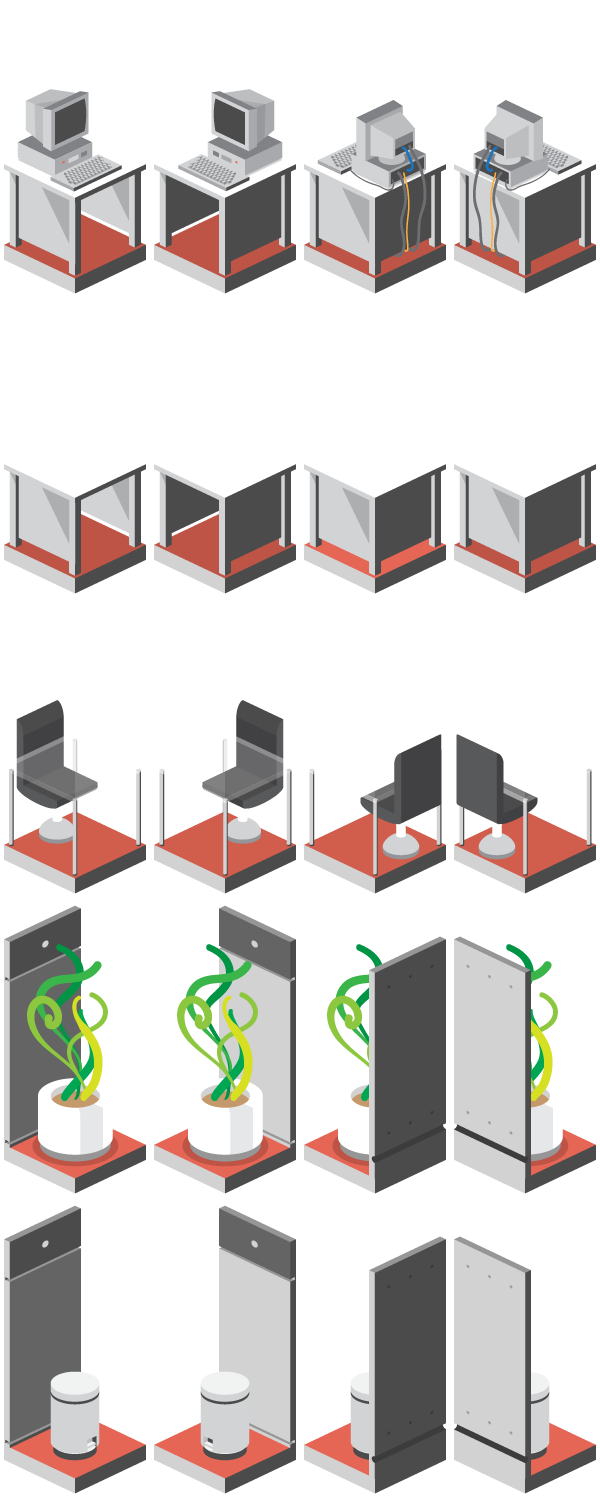
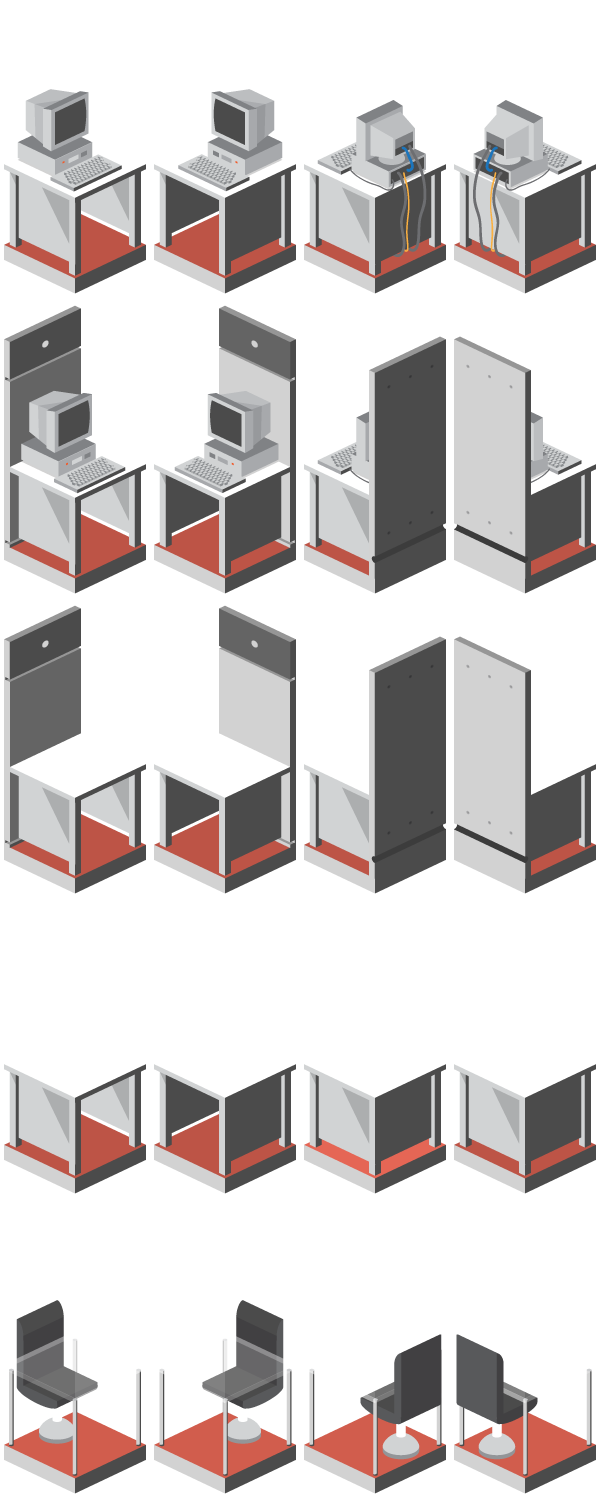
more textures

diff --git a/js/levels_new.js b/js/levels_new.js
@@ -4,7 +4,7 @@ function assignStyles(){
 	var	columns=4,
 		rows=5,
 		perPage=20,
-		max=720, ///////////total textures
+		max=880, ///////////total textures
 		x=150, ////////////sprite width
 		y=2*x, //////////sprite height
 		divSize=document.createElement('style');
@@ -72,66 +72,66 @@ floor_1[16]=[,,,,,,,,,,,,,,,,,,,];
 floor_1[17]=[,,,,,,,,,,,,,,,,,,,];
 floor_1[18]=[,,,,,,,,,,,,,,,,,,,];
 floor_1[19]=[,,,,,,,,,,,,,,,,,,,];
-floor_2[0]=[602,561,602,561,602,561,602,561,602,561,602,561,602,561,602,561,602,561,602,561];
-floor_2[1]=[602,602,602,602,602,602,602,602,602,602,602,602,602,602,602,602,602,602,602,602];
-floor_2[2]=[602,602,549,542,542,546,542,542,542,542,542,542,542,542,546,542,542,550,602,602];
-floor_2[3]=[570,570,541,557,601,601,601,601,601,601,601,601,601,601,601,601,558,543,570,570];
-floor_2[4]=[602,602,541,601,29,22,22,370,414,414,414,414,25,18,18,30,601,543,602,602];
-floor_2[5]=[602,602,545,601,17,2,2,,,,,0,13,2,2,19,601,547,602,602];
-floor_2[6]=[602,602,541,601,17,2,15,98,94,90,86,82,9,2,2,43,601,543,602,602];
-floor_2[7]=[602,602,541,601,17,2,15,120,116,112,108,104,2,2,2,47,601,543,602,602];
-floor_2[8]=[602,602,541,601,17,2,10,14,14,14,14,146,2,2,2,19,601,543,602,602];
-floor_2[9]=[602,602,541,601,17,2,2,2,2,2,2,2,2,2,2,19,601,543,602,602];
-floor_2[10]=[602,602,541,601,205,194,194,194,194,194,194,194,194,222,226,206,601,543,602,602];
-floor_2[11]=[602,602,541,601,193,182,182,182,182,182,182,182,182,182,182,195,601,543,602,602];
-floor_2[12]=[602,602,541,601,193,182,301,182,182,301,182,182,311,182,182,195,601,543,602,602];
-floor_2[13]=[602,602,541,601,193,182,301,182,182,301,182,182,311,182,182,195,601,543,602,602];
-floor_2[14]=[602,602,545,601,193,182,182,182,182,182,182,182,182,182,182,195,601,547,602,602];
-floor_2[15]=[602,602,541,601,208,196,196,196,196,196,196,196,196,196,196,207,601,543,602,602];
-floor_2[16]=[578,602,541,601,601,601,601,601,601,601,601,601,601,601,601,601,601,543,602,602];
-floor_2[17]=[542,542,542,553,601,601,601,601,601,601,601,601,601,601,601,601,554,542,542,542];
-floor_2[18]=[601,601,601,601,601,601,593,603,603,603,603,603,603,594,601,601,601,601,601,601];
-floor_2[19]=[601,601,601,601,601,601,601,603,603,603,603,603,603,601,601,601,601,601,601,601];
+floor_2[0]=[602,602,602,602,602,602,602,602,602,602,602,602,602,602,602,602,602,602,602,602];
+floor_2[1]=[602,549,542,542,542,542,542,542,542,542,542,542,542,542,542,542,542,542,550,602];
+floor_2[2]=[602,541,601,601,601,601,601,601,601,601,601,601,601,601,601,601,601,601,543,602];
+floor_2[3]=[602,541,601,601,601,601,601,601,601,601,601,601,601,601,601,601,601,601,543,602];
+floor_2[4]=[602,541,601,601,29,22,22,22,22,22,22,22,22,22,22,30,601,601,543,602];
+floor_2[5]=[602,541,601,601,17,2,2,2,2,2,2,2,2,2,2,19,601,601,543,602];
+floor_2[6]=[602,541,601,601,17,2,2,2,2,2,2,2,2,2,2,43,601,601,543,602];
+floor_2[7]=[602,541,601,601,17,2,2,2,2,2,2,2,2,2,2,47,601,601,543,602];
+floor_2[8]=[602,541,601,601,17,2,2,2,2,2,2,2,2,2,2,19,601,601,543,602];
+floor_2[9]=[602,541,601,601,17,2,2,2,2,2,2,2,2,2,2,19,601,601,543,602];
+floor_2[10]=[602,541,601,601,205,194,194,194,194,194,194,194,194,222,226,206,601,601,543,602];
+floor_2[11]=[602,541,601,601,193,182,182,182,182,182,182,182,182,182,182,195,601,601,543,602];
+floor_2[12]=[602,541,601,601,193,182,301,182,182,301,182,182,311,182,182,195,601,601,543,602];
+floor_2[13]=[602,541,601,601,193,182,301,182,182,301,182,182,311,182,182,195,601,601,543,602];
+floor_2[14]=[602,541,601,601,193,182,182,182,182,182,182,182,182,182,182,195,601,601,543,602];
+floor_2[15]=[602,541,601,601,208,196,196,196,196,196,196,196,196,196,196,207,601,601,543,602];
+floor_2[16]=[602,541,601,601,601,601,601,601,601,601,601,601,601,601,601,601,601,601,543,602];
+floor_2[17]=[602,541,601,601,601,601,601,601,601,601,601,601,601,601,601,601,601,601,543,602];
+floor_2[18]=[602,552,544,544,544,544,544,544,544,544,544,544,544,544,544,544,544,544,551,602];
+floor_2[19]=[602,602,602,602,602,602,602,602,602,602,602,602,602,602,602,602,602,602,602,602];
 floor_3[0]=[,,,,,,,,,,,,,,,,,,,];
 floor_3[1]=[,,,,,,,,,,,,,,,,,,,];
 floor_3[2]=[,,,,,,,,,,,,,,,,,,,];
 floor_3[3]=[,,,,,,,,,,,,,,,,,,,];
-floor_3[4]=[,,,,25,18,18,62,66,70,74,78,25,18,18,26,,,,];
-floor_3[5]=[,,,,21,2,2,102,106,110,114,118,13,2,2,23,,,,];
-floor_3[6]=[,,,,21,2,2,370,410,410,410,422,9,2,2,23,,,,];
-floor_3[7]=[,,,,21,2,2,368,368,368,368,363,2,2,2,23,,,,];
-floor_3[8]=[,,,,21,2,2,2,2,2,2,2,2,2,2,23,,,,];
-floor_3[9]=[,,,,21,2,2,2,2,2,2,2,2,2,2,23,,,,];
-floor_3[10]=[,,,,129,2,2,2,2,2,2,2,2,2,2,23,,,,];
-floor_3[11]=[,,,,133,2,2,149,151,2,2,149,151,2,2,23,,,,];
-floor_3[12]=[,,,,137,2,2,149,151,2,2,149,151,2,2,23,,,,];
-floor_3[13]=[,,,,121,2,2,149,151,2,2,149,151,2,2,23,,,,];
-floor_3[14]=[,,,,141,2,2,2,2,2,2,2,2,2,2,23,,,,];
-floor_3[15]=[,,,,28,24,24,24,24,48,44,24,24,24,24,27,,,,];
+floor_3[4]=[,,,,870,862,862,862,862,862,862,862,862,862,862,870,,,,];
+floor_3[5]=[,,,,825,821,821,821,821,821,821,821,821,821,821,827,,,,];
+floor_3[6]=[,,,,825,821,821,821,821,821,821,821,821,821,821,827,,,,];
+floor_3[7]=[,,,,825,881,821,821,821,821,821,821,821,821,821,827,,,,];
+floor_3[8]=[,,,,829,821,821,821,821,821,821,821,821,821,821,831,,,,];
+floor_3[9]=[,,,,825,821,821,821,821,821,821,821,821,821,821,827,,,,];
+floor_3[10]=[,,,,825,821,821,821,821,821,821,821,821,821,821,827,,,,];
+floor_3[11]=[,,,,829,821,821,821,821,821,821,821,821,821,821,831,,,,];
+floor_3[12]=[,,,,825,821,821,821,821,821,821,821,821,821,821,827,,,,];
+floor_3[13]=[,,,,825,821,821,821,821,821,821,821,821,821,821,827,,,,];
+floor_3[14]=[,,,,825,821,821,821,821,821,821,821,821,821,821,827,,,,];
+floor_3[15]=[,,,,872,864,864,864,864,864,864,864,864,864,868,872,,,,];
 floor_3[16]=[,,,,,,,,,,,,,,,,,,,];
 floor_3[17]=[,,,,,,,,,,,,,,,,,,,];
 floor_3[18]=[,,,,,,,,,,,,,,,,,,,];
 floor_3[19]=[,,,,,,,,,,,,,,,,,,,];
-floor_4[0]=[3,121,122,123,124,125,29,362,362,384,384,384,384,384,379,0,0,0,0,0];
-floor_4[1]=[25,52,52,52,52,394,59,362,383,290,290,290,290,290,381,0,0,0,0,0];
-floor_4[2]=[49,2,2,2,2,2,59,362,383,290,290,290,290,290,381,0,0,0,0,0];
-floor_4[3]=[49,2,400,400,2,2,59,362,383,290,290,290,290,290,381,0,0,0,0,0];
-floor_4[4]=[49,2,401,399,2,2,59,362,383,290,290,290,290,290,379,0,0,0,0,0];
-floor_4[5]=[34,56,56,56,21,22,32,362,383,290,290,290,290,290,379,0,0,0,0,0];
-floor_4[6]=[193,146,146,424,146,146,203,362,383,290,290,290,290,290,381,0,0,0,0,0];
-floor_4[7]=[193,146,146,146,146,146,203,362,383,290,290,290,290,290,381,0,0,0,0,0];
-floor_4[8]=[246,258,230,146,146,146,203,384,371,290,290,290,290,290,381,0,0,0,0,0];
-floor_4[9]=[252,264,230,146,146,146,164,290,290,290,290,290,290,290,381,0,0,0,0,0];
-floor_4[10]=[252,264,230,146,146,146,163,290,290,290,290,290,290,290,381,0,0,0,0,0];
-floor_4[11]=[252,264,230,146,146,146,203,382,370,290,290,290,290,290,381,0,0,0,0,0];
-floor_4[12]=[252,264,230,146,146,146,203,362,383,290,290,290,290,290,381,0,0,0,0,0];
-floor_4[13]=[219,229,148,146,146,146,203,362,383,290,290,290,290,290,381,0,0,0,0,0];
-floor_4[14]=[178,200,200,200,200,200,176,362,362,382,382,382,382,382,379,0,0,0,0,0];
-floor_4[15]=[0,0,0,0,0,0,0,0,0,0,0,0,0,0,0,0,0,0,0,0];
-floor_4[16]=[0,0,0,0,0,0,0,0,0,0,0,0,0,0,0,0,0,0,0,0];
-floor_4[17]=[0,0,0,0,0,0,0,0,0,0,0,0,0,0,0,0,0,0,0,0];
-floor_4[18]=[0,0,0,0,0,0,0,0,0,0,0,0,0,0,0,0,0,0,0,0];
-floor_4[19]=[0,0,0,0,0,0,0,0,0,0,0,0,0,0,0,0,0,0,0,0];
+floor_4[0]=[,,,,,,,,,,,,,,,,,,,];
+floor_4[1]=[,,,,,,,,,,,,,,,,,,,];
+floor_4[2]=[,,,,,,,,,,,,,,,,,,,];
+floor_4[3]=[,,,,,,,,,,,,,,,,,,,];
+floor_4[4]=[,,,,,,,,,,,,,,,,,,,];
+floor_4[5]=[,,,,850,834,834,834,834,834,834,834,834,834,834,850,,,,];
+floor_4[6]=[,,,,854,838,838,838,838,838,838,838,838,838,838,854,,,,];
+floor_4[7]=[,,,,858,846,846,846,846,846,846,846,846,846,846,858,,,,];
+floor_4[8]=[,,,,823,822,822,822,822,822,822,822,822,822,822,823,,,,];
+floor_4[9]=[,,,,823,822,822,822,822,822,822,822,822,822,822,823,,,,];
+floor_4[10]=[,,,,823,822,822,822,822,822,822,822,822,822,822,823,,,,];
+floor_4[11]=[,,,,823,822,822,822,822,822,822,822,822,822,822,823,,,,];
+floor_4[12]=[,,,,860,848,848,848,848,848,848,848,848,848,848,860,,,,];
+floor_4[13]=[,,,,856,840,840,840,840,840,840,840,840,840,840,856,,,,];
+floor_4[14]=[,,,,852,836,836,836,836,836,836,836,836,836,836,852,,,,];
+floor_4[15]=[,,,,,,,,,,,,,,,,,,,];
+floor_4[16]=[,,,,,,,,,,,,,,,,,,,];
+floor_4[17]=[,,,,,,,,,,,,,,,,,,,];
+floor_4[18]=[,,,,,,,,,,,,,,,,,,,];
+floor_4[19]=[,,,,,,,,,,,,,,,,,,,];
 floor_5[0]=[26,126,132,132,132,73,28,0,0,0,0,0,0,0,379,0,0,0,0,0];
 floor_5[1]=[50,85,85,85,85,4,2,0,0,0,0,0,0,0,0,0,0,0,0,0];
 floor_5[2]=[50,2,2,2,2,2,2,0,0,0,0,0,0,0,0,0,0,0,0,0];

diff --git a/js/level_generator.js b/js/level_generator.js
@@ -154,16 +154,50 @@ function createSelectors(f,leng,color){
 			var	sap=$('#tile'+f+'_'+j+"_"+k),
 				name='selec'+f+'_'+j+"_"+k,
 				kak=sap.attr('level');
-				if(instanceColor(kak,color)){
-					selection.append('<div class="tileSelec" id="'+name+'" ypos="'+j+'" xpos="'+k+'"/>');
-					$('#selec'+f+"_"+posA.y+"_"+posA.x).hide();
-					$('#'+name).css({
-						top: sap.offset().top+226+"px",
-						left: sap.offset().left+35+"px"
-					});
-				};				
+			if(instanceColor(kak,color)){
+				selection.append('<div class="tileSelec" id="'+name+'" ypos="'+j+'" xpos="'+k+'"/>');
+				$('#selec'+f+"_"+posA.y+"_"+posA.x).hide();
+				$('#'+name).css({
+					top: sap.offset().top+226+"px",
+					left: sap.offset().left+35+"px"
+				});
+			};				
 		};
 	};
+	/*for(var h=0, j=leng-1; h<leng, j>=0; h++, j--){
+		for(var n=0, m=leng-1; n<leng, m>=0; n++, m--){
+			var	y, x;
+			switch(current_dir){
+				case 'ori':
+					y=h;
+					x=n;
+					break;
+				case "rot":
+					y=m;
+					x=h;
+					break;
+				case "rev":
+					y=n;
+					x=j;
+					break;
+				case "inv":
+					y=j;
+					x=m;
+					break;
+				default: break;
+			}
+			var	sap=$('#tile'+f+'_'+y+"_"+x),
+				name='selec'+f+'_'+y+"_"+x;
+			if(instanceColor(sap.attr('level'),color)){
+				selection.append('<div class="tileSelec" id="'+name+'" ypos="'+y+'" xpos="'+x+'">'+current_dir+","+y+","+x+'</div>');
+				$('#selec'+f+"_"+posA.y+"_"+posA.x).hide();
+				$('#'+name).css({
+					top: sap.offset().top+226+"px",
+					left: sap.offset().left+35+"px"
+				});
+			};				
+		}
+	}*/
 };
 
 
@@ -267,7 +301,7 @@ function startPlayer(f,pos,color){
 	showPlayer(pos,f);
 	clickTile(f);
 };
-var	current_floor=2,
+var	current_floor=0,
 	current_dir="ori";
 
 $(document).ready(function(){
@@ -280,15 +314,12 @@ $(document).ready(function(){
 		
 	}
 	$('body').append('<div id="selection"/>');
-	
-	startFloor(2,current_dir);
-	//startFloor(1,current_dir);
-	//startFloor(2,current_dir);
-	//startFloor(2,current_dir);
-	//startFloor(1,current_dir);
-	//startFloor(3,current_dir);
-	rotateFloorButton(2);
-	startPlayer(2,posA,'yellow');
+	for(var kok=0; kok<current_floor; kok++){
+		startFloor(kok,current_dir);
+	}
+	startFloor(current_floor,current_dir);
+	rotateFloorButton(current_floor);
+	startPlayer(2,posA,getColor(eval('floor_'+2)[posA.y][posA.x]));
 });
 
 function rotateFloorButton(f){
@@ -319,18 +350,23 @@ function rotateFloorButton(f){
 		}
 		startFloor(f,to_cam);
 		var newPos=rotatePlayerPos(to_cam,posA,eval('floor_'+f).length);
-		console.log(newPos);
+		//console.log(newPos);
 		var coeur=getColor(eval('floor_'+f)[posA.y][posA.x]);
 		flipClass(rotateLevel(eval('floor_'+f),to_cam),f,to_cam);
-		startPlayer(f, newPos, coeur);
 		current_dir=to_cam;
+		startPlayer(f, newPos, coeur);
+		console.log(current_dir);
 	});
 }
 function flipClass(arr,f,typ){
 	for(var g=0; g<arr.length; g++){
 		for(var i=0;i<arr[0].length; i++){
 			var t=arr[g][i];
-			if(t>4 && t<165 || t>185 && t<321 || t>360 && t<425 || t>540 && t<581 || t>640 && t<717){////yellow
+			if(
+			t>4 && t<165 || t>185 && t<321 || t>360 && t<425 || 
+			t>540 && t<581 || t>640 && t<717 ||
+			t>724 && t<797 || t>824 && t<885
+			){////yellow
 				var p;
 				switch(typ){
 					case "rot":

diff --git a/js/player_move.js b/js/player_move.js
@@ -22,7 +22,7 @@ function showNPC(pos,floor){
 	$('#selec'+floor+'_'+pos.y+'_'+pos.x).css('display','none');
 };
 
-var 	posA={y:6,x:12},
+var 	posA={y:17,x:17},
 	posB={y:"",x:""};
 var 	npcA={y:7, x:12};
 
@@ -31,16 +31,19 @@ function clickTile(floor){
 		$('.tileSelec').hide();
 		$('.mapObj').remove();
 		posB={y:parseInt($(this).attr('ypos')),x:parseInt($(this).attr('xpos'))};
-
-		var	//arr=rotateLevel(eval('floor_'+floor),current_dir),
-			arr=eval('floor_'+floor),
-			pos=rotatePlayerPos(current_dir,posA,eval('floor_'+floor).length),
-			color=getColor(eval('floor_'+floor)[posA.y][posA.x]),
-			player_route=starRoute(arr, pos, posB, color);
+		var	//arr=eval('floor_'+floor),
+			arr=rotateLevel(eval('floor_'+floor),current_dir),
+			pos=rotatePlayerPos(current_dir,posA,arr.length),
+			pos_b=rotatePlayerPos(current_dir,posB,arr.length),
+			color=getColor(arr[pos.y][pos.x]);
+		console.log(pos);
+		console.log(pos_b);
+		console.log(current_dir);
 		//var	player_route=starRoute(rotateLevel(floor_2,"rot"),posA,posB,color);
 		//console.log(getDepths(player_route,floor));
+		
 		animatePlayer=setInterval(function(){
-			processToMove(player_route,floor);
+			processToMove(starRoute(arr, pos, posB, color),floor);
 		},animPlayTime);
 	});
 };
@@ -147,7 +150,6 @@ function processToMove(route,floor){
 			break;
 		}
 	}
-	var w=-150, h=-300;
 	if(ptm%2==0)	playerFace(face,"a");
 	if(ptm%2!=0)	playerFace(face,"b")
 	ptm++;
@@ -164,7 +166,6 @@ function processToMove(route,floor){
 		posA.y=posB.y;
 		posA.x=posB.x;
 		posB.y="";
-		//playerFace(face,"c");
 		posB.x="";	
 
 		$('.tileSelec').show();
